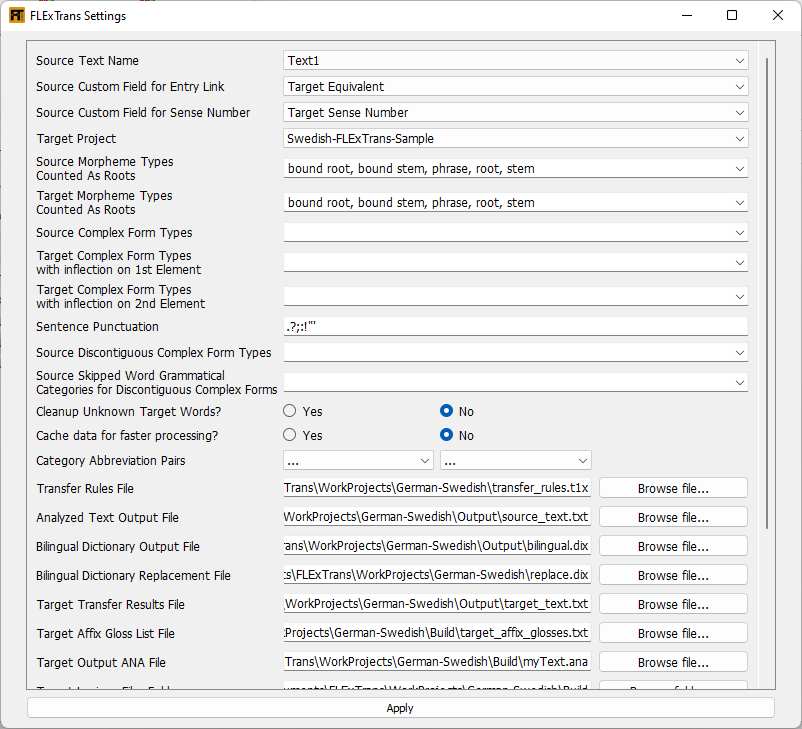
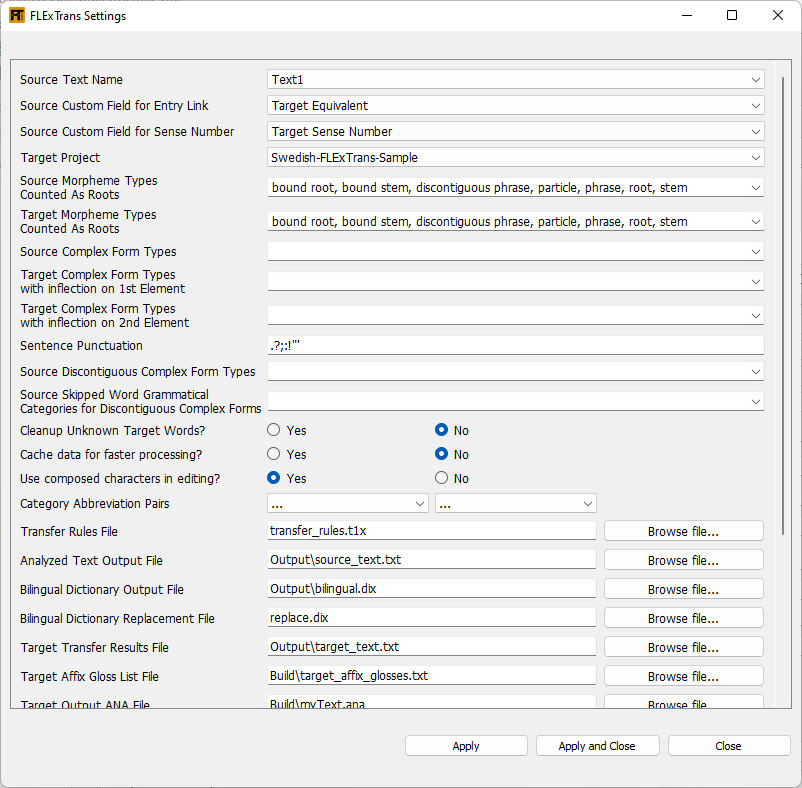
mainly updated prep steps 2.2

Changed region(s): [[0.0, 0.0604, 1.0, 1.0], [0.0, 0.0, 0.1559, 0.0302], [0.0, 0.9959, 0.0935, 1.0]]

diff --git a/Doc/UserDoc.htm b/Doc/UserDoc.htm
@@ -10,8 +10,8 @@
    <body>
       <center><b><big><big><big><span style="font-family:Courier New; font-weight:bold; color:navy; ">FLExTrans</span> User Documentation</big></big></big></b></center>
       <center><i></i></center>
-      <center><i>flextrans.help@gmail.com</i></center><br><center><small>22 July, 2022</small></center>
-      <center><small>Version: FLExTrans 3.5.5</small></center>
+      <center><i>flextrans.help@gmail.com</i></center><br><center><small>7 November, 2022</small></center>
+      <center><small>Version: FLExTrans 3.6.3</small></center>
       <hr>
       <div>
          <center><big><big><b>Contents</b></big></big></center>
@@ -211,9 +211,18 @@
             <ol style="list-style-type:lower-alpha; ">
                <li>In File Explorer, go to the <span style="font-family:Tahoma; font-size:80%; font-style:normal; font-weight:normal; ">WorkProjects</span> subfolder of the installation folder (typically <span style="font-family:Tahoma; font-size:80%; font-style:normal; font-weight:normal; ">Documents\FLExTrans</span>).
                </li>
-               <li>Copy the <span style="font-family:Tahoma; font-size:80%; font-style:normal; font-weight:normal; ">German-Swedish</span> folder and Paste it where it is. You should see a new folder called <span style="font-family:Tahoma; font-size:80%; font-style:normal; font-weight:normal; ">German-Swedish - Copy</span></li>
-               <li>Rename this folder to the language pair you will work with.</li>
+               <li>Copy the <span style="font-family:Tahoma; font-size:80%; font-style:normal; font-weight:normal; ">TemplateProject</span> folder and Paste it where it is. You should see a new folder called <span style="font-family:Tahoma; font-size:80%; font-style:normal; font-weight:normal; ">TemplateProject - Copy</span></li>
+               <li>Rename this folder to the name of language pair you will work with.</li>
             </ol>
+         </li>
+         <li>Enable the sharing option in each of your <span style="font-family:Courier New; font-weight:bold; color:navy; ">FLEx</span> projects. This will allow you to keep <span style="font-family:Courier New; font-weight:bold; color:navy; ">FLEx</span> projects open while running <span style="font-family:Courier New; font-weight:bold; color:navy; ">FLExTrans</span>.
+            <ul>
+               <li>From the menu select <span style="font-family:Courier New; font-weight:bold; color:#009933; ">File</span> &gt; <span style="font-family:Courier New; font-weight:bold; color:#009933; ">Project Management</span> &gt; <span style="font-family:Courier New; font-weight:bold; color:#009933; ">FieldWorks Project Properties</span></li>
+               <li>Click on the <span style="font-family:Courier New; font-weight:bold; color:#009933; ">Sharing</span> tab.
+               </li>
+               <li>Check the box that says <span style="text-decoration:underline; ">Share project contents with programs on this computer</span> 
+               </li>
+            </ul>
          </li>
          <li>Add two custom fields to your source <span style="font-family:Courier New; font-weight:bold; color:navy; ">FLEx</span> project. This is where link information to the target senses is kept.
             <ol style="list-style-type:lower-alpha; ">
